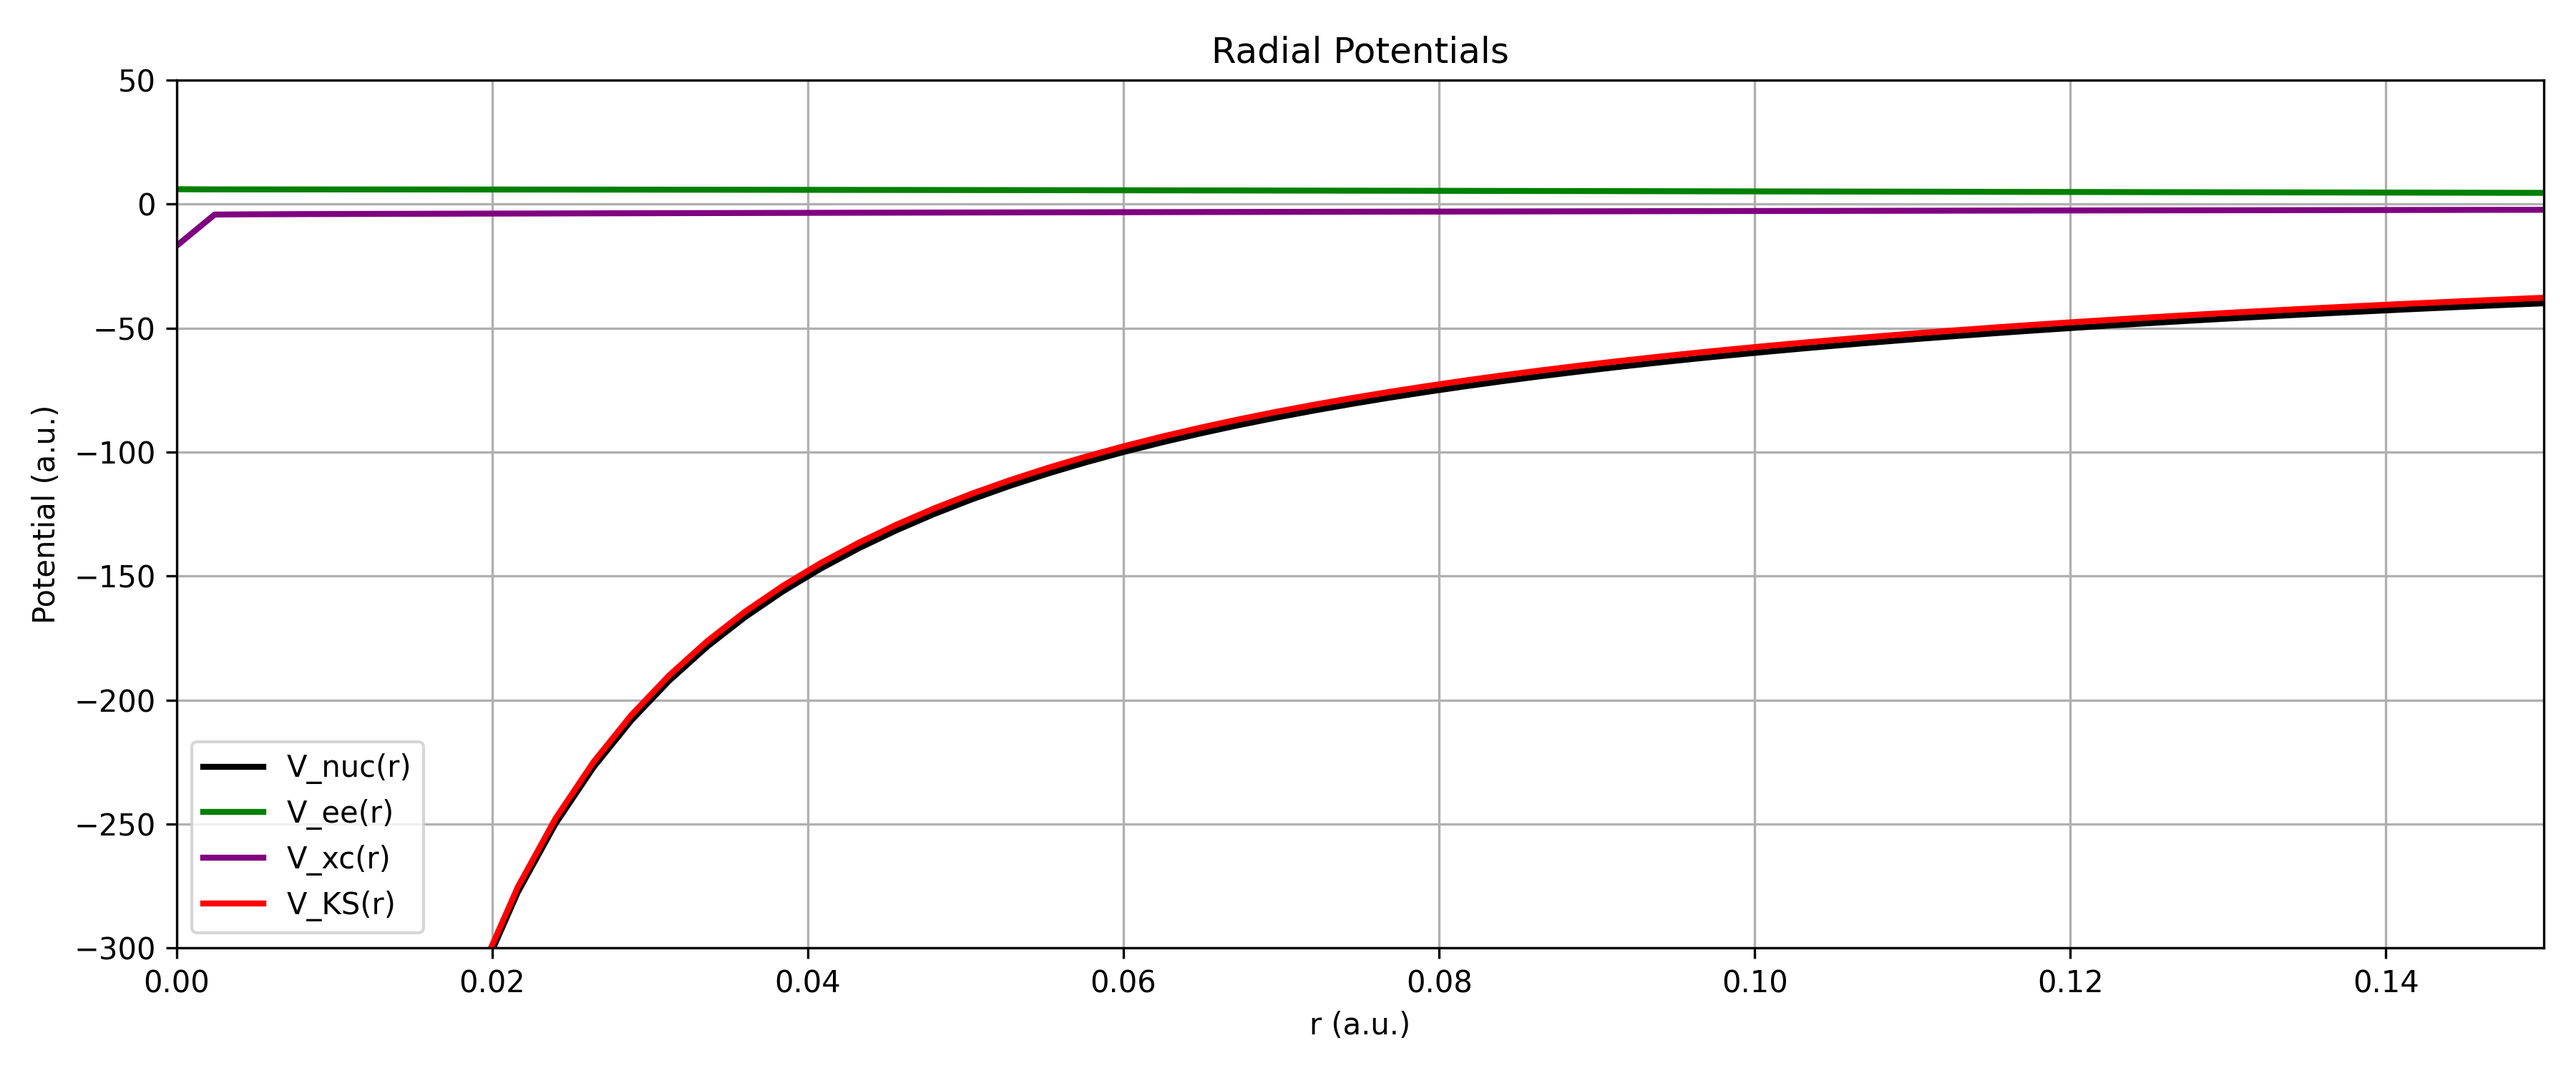
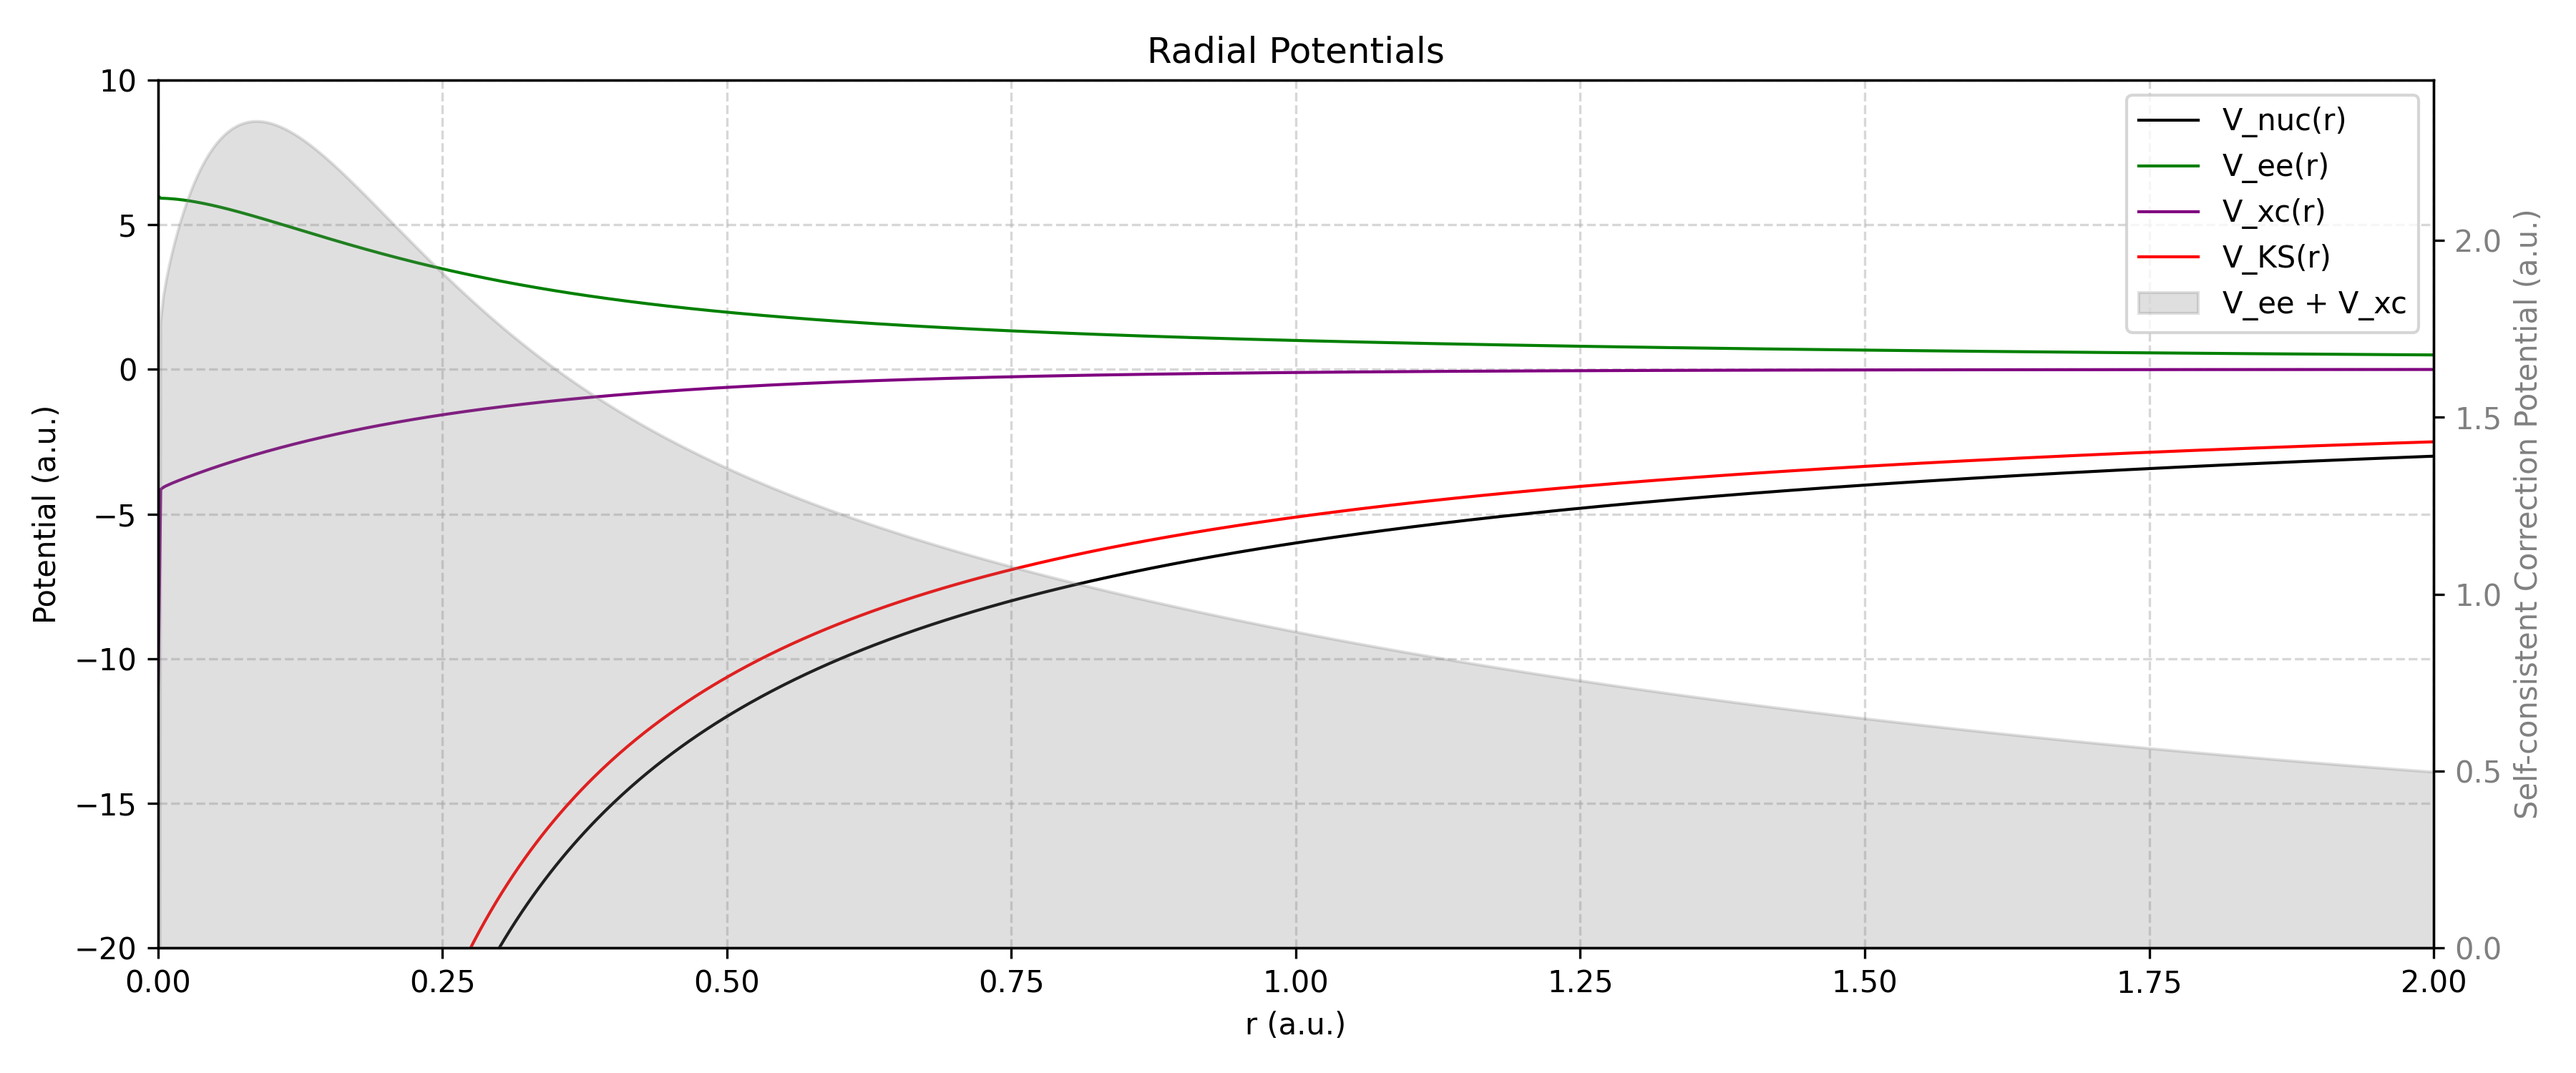
Enhance plotting in main.py: improve layout and add difference plots

diff --git a/density-functional-theory/main.py b/density-functional-theory/main.py
@@ -29,43 +29,65 @@ def plot(dft: RadialDFT, wavefunc=True, potential=True, savefig=True):
     """
     r = dft.r
     if wavefunc:
-        plt.figure(figsize=(12, 5))
-        plt.plot(r, dft.P, label='Numerical P(r)', color='blue', lw=2)
-        plt.plot(r, dft.P_analytical, label='Analytical P(r)', color='orange', linestyle='--', lw=2)
-        plt.xlabel('r (a.u.)')
-        plt.ylabel('Radial Wavefunction P(r)')
-        plt.xlim([0, 0.25])
+        fig, ax1 = plt.subplots(figsize=(12, 5))
+        ax1.plot(r, dft.P, label='Numerical P(r)', color='blue', lw=2)
+        ax1.plot(r, dft.P_analytical, label='Analytical P(r)', color='orange', linestyle='--', lw=2)
+        ax1.set_xlabel('r (a.u.)')
+        ax1.set_ylabel('Radial Wavefunction P(r)', color='black')
+        ax1.set_xlim(0.0, 2.0)
+        ax1.set_ylim(0.0, np.max(dft.P) * 1.05)
+        ax1.grid(True, linestyle='--', alpha=0.5)
+
+        diff = dft.P - dft.P_analytical
+        ax2 = ax1.twinx()
+        ax2.fill_between(r, diff, 0, color='gray', alpha=0.3, label='Difference (Numerical - Analytical)')
+        ax2.set_ylabel('Difference ΔP(r)', color='gray')
+        ax2.tick_params(axis='y', labelcolor='gray')
+        # ax2.set_ylim(-0.0005, np.max(diff) * 1.05)
+
+        lines_1, labels_1 = ax1.get_legend_handles_labels()
+        lines_2, labels_2 = ax2.get_legend_handles_labels()
+        ax1.legend(lines_1 + lines_2, labels_1 + labels_2, loc='upper right')
 
         plt.title('Radial Wavefunction Comparison')
-        plt.legend()
-        plt.grid()
-        plt.xlim(0, 0.25)
-
         plt.tight_layout()
 
         if savefig:
-            plt.savefig("wavefunction.png", dpi=300)
+            plt.savefig("data/wavefunction.png", dpi=300)
+            plt.close(fig)
         else:
             plt.show()
 
     if potential:
-        plt.figure(figsize=(12, 5))
-        plt.plot(r, dft.v_nuc, label='V_nuc(r)', color='black', lw=2)
-        plt.plot(r, dft.v_ee, label='V_ee(r)', color='green', lw=2)
-        plt.plot(r, dft.v_xc, label='V_xc(r)', color='purple', lw=2)
-        plt.plot(r, dft.v_ks, label='V_KS(r)', color='red', lw=2)
-        plt.xlabel('r (a.u.)')
-        plt.ylabel('Potential (a.u.)')
-        plt.title('Radial Potentials')
-        plt.legend()
-        plt.grid()
-        plt.xlim(0, 0.15)
-        plt.ylim(-300, 50)
+        fig, ax1 = plt.subplots(figsize=(12, 5))
+        ax1.plot(r, dft.v_nuc, label='V_nuc(r)', color='black', lw=1)
+        ax1.plot(r, dft.v_ee, label='V_ee(r)', color='green', lw=1)
+        ax1.plot(r, dft.v_xc, label='V_xc(r)', color='purple', lw=1)
+        ax1.plot(r, dft.v_ks, label='V_KS(r)', color='red', lw=1)
 
+        ax1.set_xlabel('r (a.u.)')
+        ax1.set_ylabel('Potential (a.u.)', color='black')
+        ax1.set_xlim(0, 2.0)
+        ax1.set_ylim(-20, 10)
+        ax1.grid(True, linestyle='--', alpha=0.5)
+
+        v_sc = dft.v_ee + dft.v_xc
+        ax2 = ax1.twinx()
+        ax2.fill_between(r, v_sc, 0, color='gray', alpha=0.25, label='V_ee + V_xc')
+        ax2.set_ylabel('Self-consistent Correction Potential (a.u.)', color='gray')
+        ax2.tick_params(axis='y', labelcolor='gray')
+        ax2.set_ylim(0, np.max(v_sc) * 1.05)
+
+        lines_1, labels_1 = ax1.get_legend_handles_labels()
+        lines_2, labels_2 = ax2.get_legend_handles_labels()
+        ax1.legend(lines_1 + lines_2, labels_1 + labels_2, loc='upper right')
+
+        plt.title('Radial Potentials')
         plt.tight_layout()
 
         if savefig:
-            plt.savefig("potential.png", dpi=300)
+            plt.savefig("data/potential.png", dpi=300)
+            plt.close(fig)
         else:
             plt.show()
 
